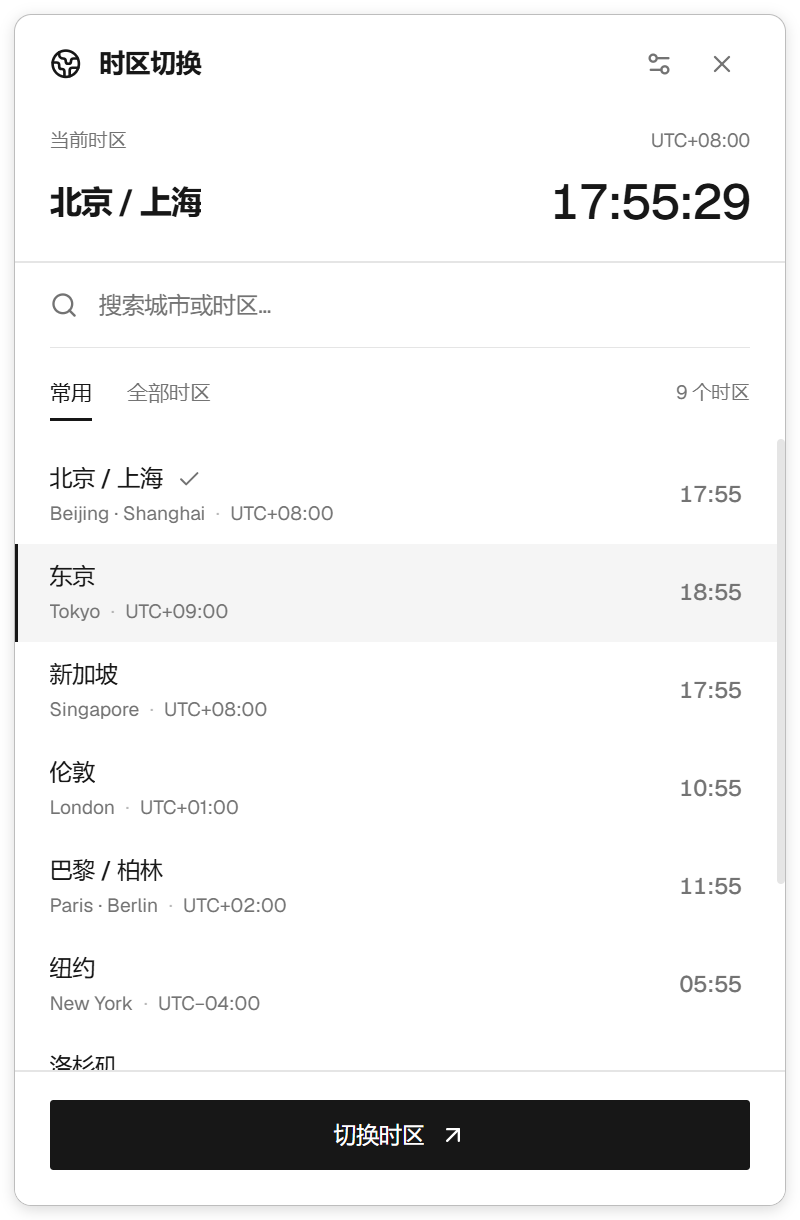
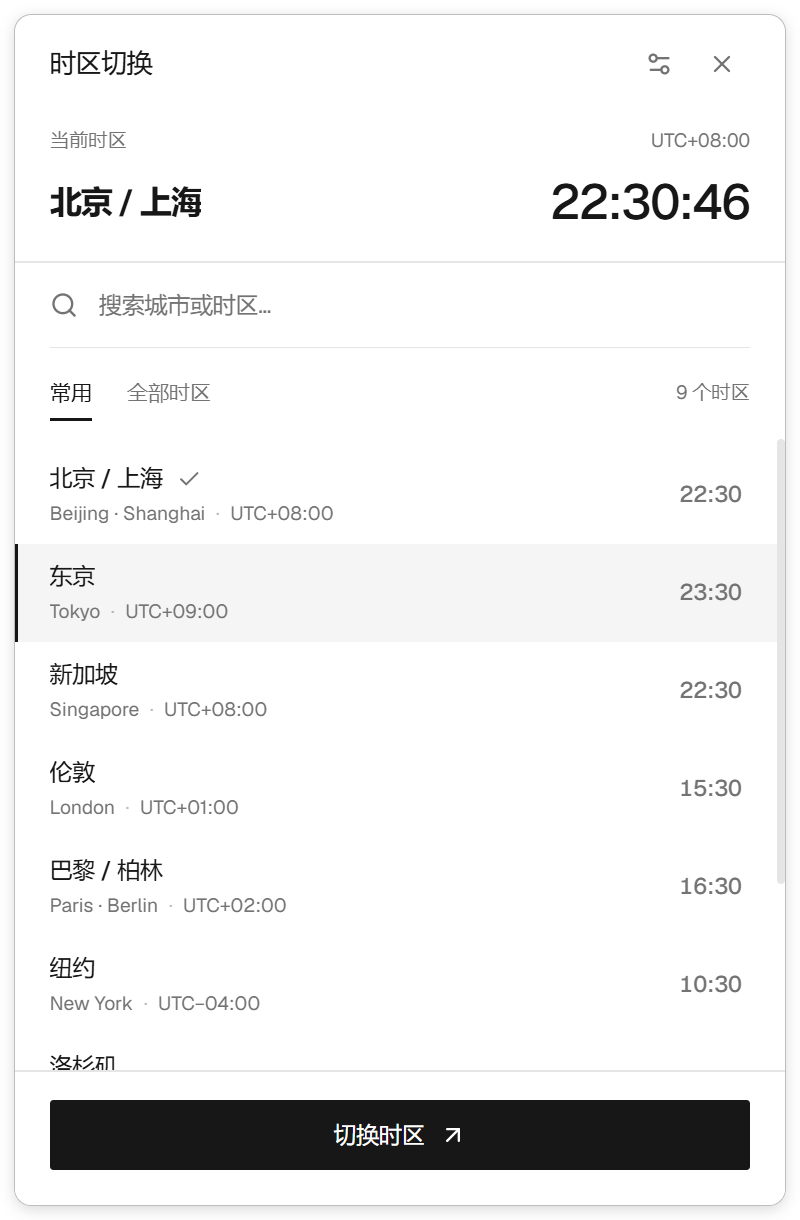
Simplify panel header and release v1.0.2

diff --git a/src/App.tsx b/src/App.tsx
@@ -1,5 +1,5 @@
 import { useEffect, useState } from 'react'
-import { Globe2, Search, X, ArrowUpRight, Check, Loader2, Settings2, RotateCw } from 'lucide-react'
+import { Search, X, ArrowUpRight, Check, Loader2, Settings2, RotateCw } from 'lucide-react'
 import { Button } from '@/components/ui/button'
 import { Input } from '@/components/ui/input'
 import { Tabs, TabsList, TabsTrigger } from '@/components/ui/tabs'
@@ -31,7 +31,7 @@ export default function App() {
   try {const result=await window.timezone.switch(target.id,elevated);if(result.ok){setZones(result.zones!);setCanElevate(false);setSuccess(result.unchanged?'当前已是这个时区':'已切换至 '+(cities[target.id]?.[0]||target.label)); if(!result.unchanged){setTimeout(()=>window.timezone.hide(),900)}}else{setError(result.error||'切换未完成');setCanElevate(!!result.canElevate)}}catch{setError('切换未完成，请重试。')}finally{setBusy(false)}
  }
  return <main className="window-shell flex flex-col overflow-hidden">
-  <header className="drag flex h-14 shrink-0 items-center justify-between px-5"><div className="flex items-center gap-2.5"><Globe2 className="size-[18px] text-foreground"/><span className="text-[15px] font-semibold tracking-tight">时区切换</span></div><div className="no-drag flex items-center gap-1"><Button variant="ghost" size="icon" className="size-8 rounded-sm text-muted-foreground" aria-label="系统设置" title="系统设置" onClick={()=>window.timezone.settings()}><Settings2 className="size-4"/></Button><Button variant="ghost" size="icon" className="size-8 rounded-sm text-muted-foreground" aria-label="收起到托盘" title="收起到托盘" onClick={()=>window.timezone.hide()}><X className="size-4"/></Button></div></header>
+  <header className="drag flex h-14 shrink-0 items-center justify-between px-5"><div className="flex items-center gap-2.5"><span className="text-[15px] font-normal tracking-tight">时区切换</span></div><div className="no-drag flex items-center gap-1"><Button variant="ghost" size="icon" className="size-8 rounded-sm text-muted-foreground" aria-label="系统设置" title="系统设置" onClick={()=>window.timezone.settings()}><Settings2 className="size-4"/></Button><Button variant="ghost" size="icon" className="size-8 rounded-sm text-muted-foreground" aria-label="收起到托盘" title="收起到托盘" onClick={()=>window.timezone.hide()}><X className="size-4"/></Button></div></header>
   <section className="px-5 pb-5 pt-2"><div className="mb-3 flex items-center justify-between"><span className="text-[11px] text-muted-foreground">当前时区</span><span className="text-[11px] tabular-nums text-muted-foreground">{current?offset(current.offset):'UTC'}</span></div><div className="flex items-center justify-between gap-3"><div className="min-w-0 truncate text-[18px] font-semibold tracking-tight" title={current?.label}>{current?(cities[current.id]?.[0]||current.label.replace(/^\(.*?\)\s*/,'')):'正在读取…'}</div><div className="shrink-0 text-[28px] font-medium leading-none tracking-tight tabular-nums" aria-label="当前时间">{current?time(now,current,true):'--:--:--'}</div></div></section>
   <Separator/>
   <div className="relative mx-5 border-b transition-colors focus-within:border-foreground"><Search className="absolute left-0 top-4 size-4 text-muted-foreground"/><Input aria-label="搜索时区" placeholder="搜索城市或时区…" className="h-12 rounded-none border-0 bg-transparent pl-7 pr-8 text-[13px] shadow-none placeholder:text-muted-foreground focus-visible:ring-0" value={query} onChange={e=>setQuery(e.target.value)} disabled={busy}/>{query&&<Button variant="ghost" size="icon" aria-label="清空搜索" className="absolute right-0 top-2 size-8 rounded-sm text-muted-foreground" disabled={busy} onClick={()=>setQuery('')}><X className="size-3.5"/></Button>}</div>
